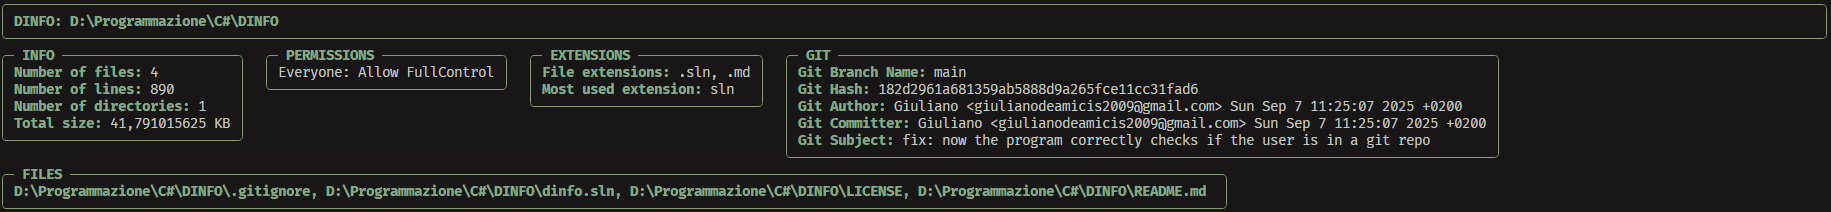
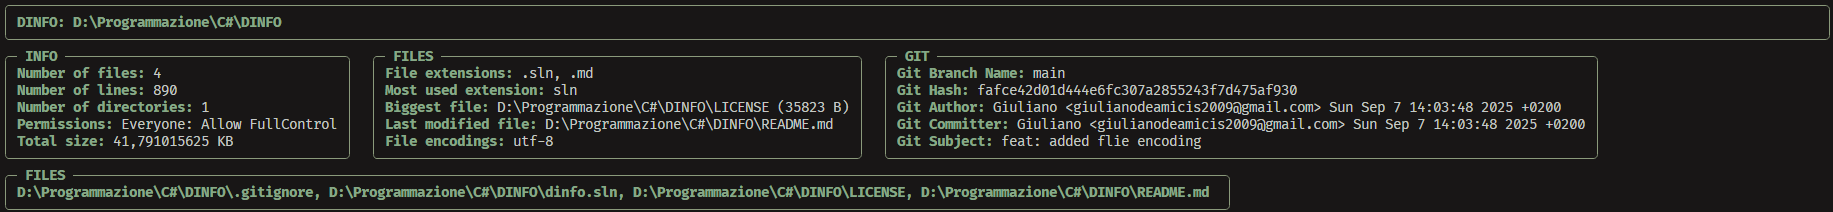
feat: now the program will display the last modified file

diff --git a/src/tui/helpers/tui.cs b/src/tui/helpers/tui.cs
@@ -1,4 +1,5 @@
 using dinfo.core.Helpers.DirTools;
+using dinfo.core.Helpers.FilesTools;
 using dinfo.core.Utils.Globals;
 using dinfo.core.Utils.Help;
 using Spectre.Console;
@@ -88,6 +89,7 @@ public static class TuiHelper
             $"[bold green]File extensions:[/] {string.Join(", ", fileTypesNoDupes)}\n" +
             $"[bold green]Most used extension:[/] {mostUsedExtension.TrimStart('.')}\n" +
             $"[bold green]Biggest file:[/] {GlobalsUtils.BiggestFile} ({GlobalsUtils.BiggestFileSize} B)\n" +
+            $"[bold green]Last modified file:[/] {GlobalsUtils.LastModifiedFile}\n" +
             $"[bold green]File encodings:[/] {string.Join(", ", GlobalsUtils.Encodings.Distinct())}"
         );
 

diff --git a/src/core/Helpers/files.cs b/src/core/Helpers/files.cs
@@ -69,4 +69,19 @@ public static class FilesHelper
         }
     }
 
+    public static void GetLastModifiedFile(string targetDirectory)
+    {
+        var files = new DirectoryInfo(targetDirectory).EnumerateFiles().ToArray();
+
+        if (files.Length == 0)
+        {
+            GlobalsUtils.LastModifiedFile = "N/A";
+            return;
+        }
+
+        GlobalsUtils.LastModifiedFile = files
+            .OrderBy(fi => fi.LastWriteTime)
+            .Last()
+            .FullName;
+    }
 }

diff --git a/src/core/Helpers/directory.cs b/src/core/Helpers/directory.cs
@@ -24,6 +24,8 @@ public static class DirectoryHelper
             FilesHelper.GetFileType(fileName);
         }
 
+        FilesHelper.GetLastModifiedFile(targetDirectory);
+
         string[] subdirectoryEntries = Directory.GetDirectories(targetDirectory);
 
         if (GlobalsUtils.Recursive)

diff --git a/src/core/Utils/globals.cs b/src/core/Utils/globals.cs
@@ -24,4 +24,5 @@ public static class GlobalsUtils
     public static string GitCommitter = "N/A";
     public static string GitSubject = "N/A";
     public static string TargetDirectory = "";
+    public static string LastModifiedFile = "N/A";
 }
